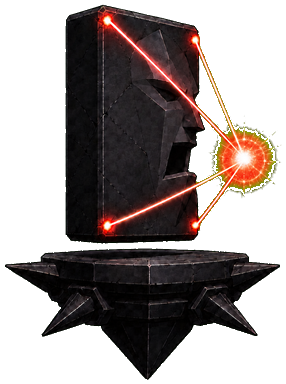
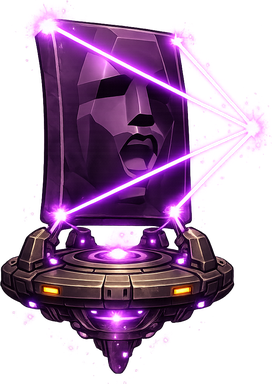
feat: ニセンモノのキャラ画像を差し替える (v115)
assets/nisenmono.png を差し替えた(272x384、152KB)。設定は一切変えていない。
facesLeft の一覧も変わらない(元から右向き素材で、新しい絵も右向き)。

素材の受け渡しでつまずいた点を引継書に残した。

- チャットへ貼った画像は透過が潰れる。最初にもらった版は四隅が真っ黒ではなく
  暗い紫(44,28,40)で、中心へ向かって明るくなっていた
- 焼き付いた版から背景を抜こうとしたが、この絵は石板の顔と背景のもやがほぼ同じ色
  だった(顔 (123,65,118) / すぐ横の背景 (121,68,113))。色で切り分ける方法では
  「顔を残すともやが付く／もやを消すと顔が透ける」の二択にしかならない
- この作業環境からは Google Drive へ到達できない(ネットワークポリシーが CONNECT を
  403で拒否する。共有設定の問題ではない)。GitHub は通るので、assets へ直接
  アップロードしてもらうのが確実。実際その方法で受け取った

元データが透過なので背景を抜く処理は不要。やったのは切り出しと縮小だけ。下端は
「実体のある最終行」で切る。画像の下端を接地線に合わせて描くため、下に薄い光の粒まで
残すとそのぶん機体が浮いて見える。

受け取り用に置かれた assets/ニセンモノ2.png (2.4MB) は削除した。

ルールの変更なし。Console作業は不要。

テスト: 合計799件すべて成功(追加なし。画像の差し替えなので設定側は無変更)。
盤面の表示サイズ(高さ78px)で実際に合成して、読めること・接地していること・
左右反転しても破綻しないことを確認した。

Claude-Session: https://claude.ai/code/session_01UmCfoTEffAfxbpcwY121Fh

diff --git a/index.html b/index.html
@@ -435,7 +435,7 @@
   // ===== ビルド番号 =====
   // 端末がどの版を掴んでいるかを目で確かめるための番号。sw.js の CACHE_VERSION と必ず揃えること。
   // 不具合報告の時、双方が同じ版で動いているかをここ一箇所で確認できる。
-  const BUILD_ID = 'v114';
+  const BUILD_ID = 'v115';
 
   // ===== 最終更新日(サーバー側のファイル更新日時から自動取得。手動更新不要) =====
   const LAST_UPDATED_TEXT = (() => {

diff --git a/sw.js b/sw.js
@@ -1,4 +1,4 @@
-const CACHE_VERSION = 'katamon-pwa-v114';
+const CACHE_VERSION = 'katamon-pwa-v115';
 const APP_SHELL = [
   './',
   './index.html',
